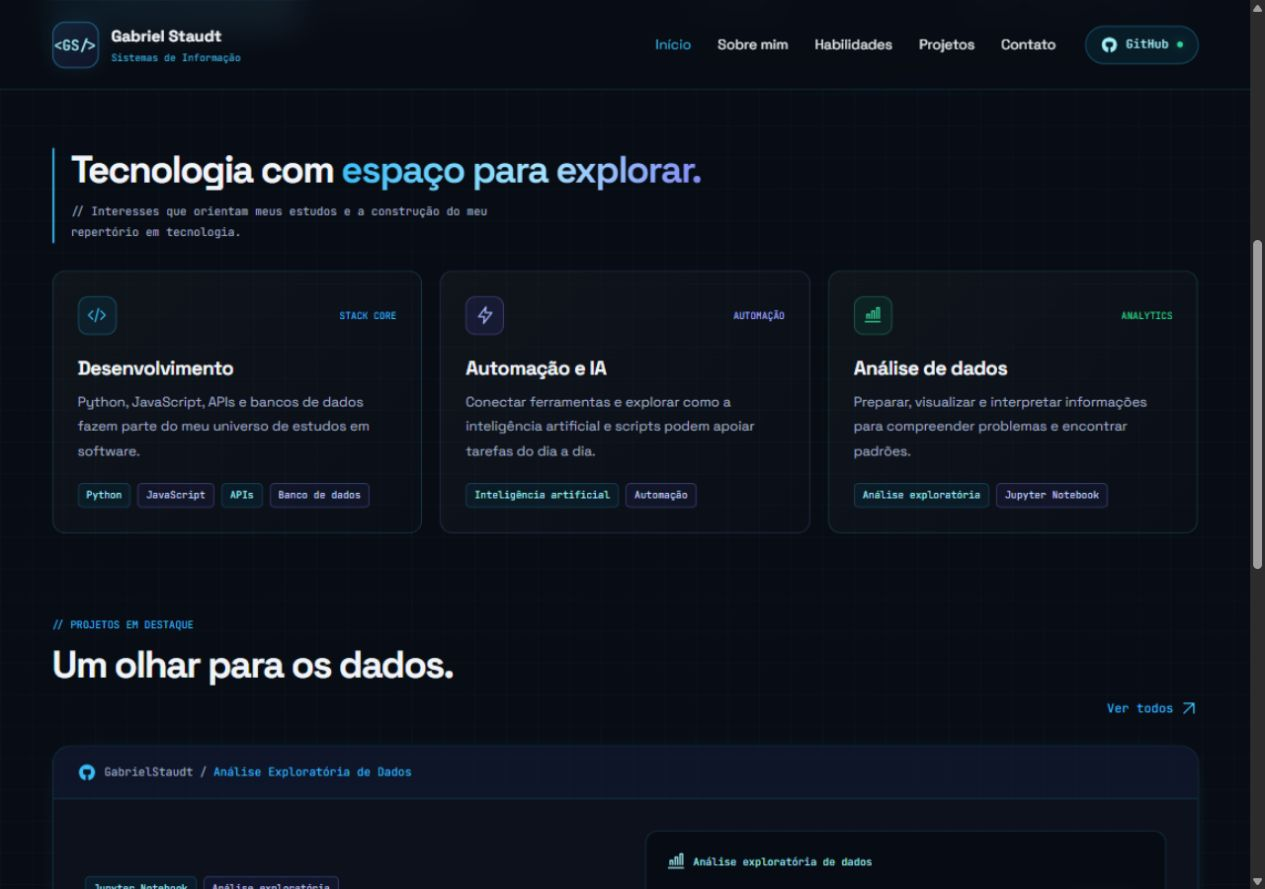
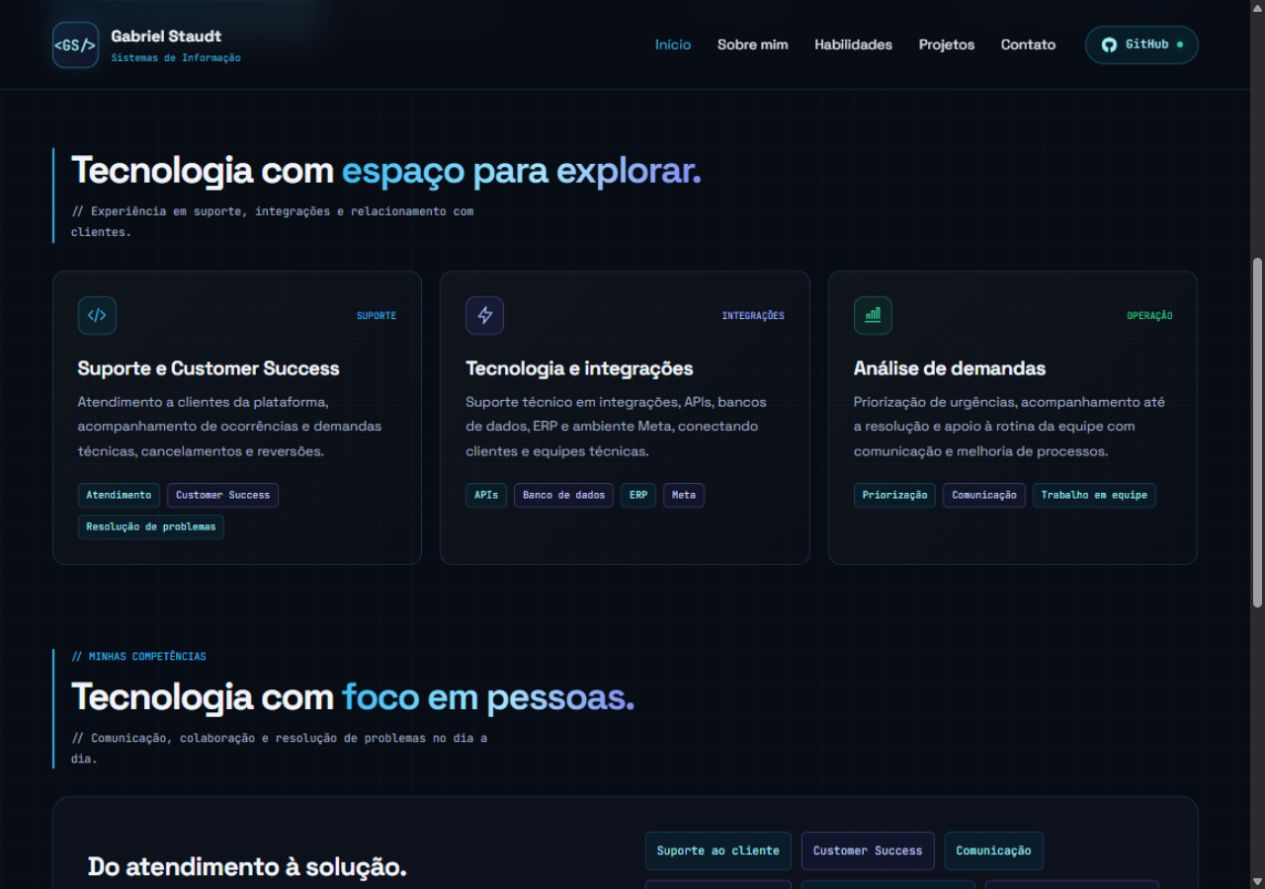
feat: atualiza perfil com currículo e destaca competências

diff --git a/src/index.html b/src/index.html
@@ -3,12 +3,12 @@
 <head>
   <meta charset="UTF-8">
   <meta name="viewport" content="width=device-width, initial-scale=1">
-  <meta name="description" content="Gabriel Staudt, acadêmico de Sistemas de Informação. Desenvolvimento de software, automação, inteligência artificial e análise de dados.">
+  <meta name="description" content="Gabriel Bregalda Staudt, Analista de Suporte na Redrive e estudante de Sistemas de Informação na Unochapecó. Tecnologia, integrações e Customer Success.">
   <meta name="theme-color" content="#080c14">
   <meta property="og:type" content="website">
-  <meta property="og:title" content="Gabriel Staudt | Software, Automação &amp; Dados">
-  <meta property="og:description" content="Gabriel Staudt, acadêmico de Sistemas de Informação. Desenvolvimento de software, automação, inteligência artificial e análise de dados.">
-  <title>Gabriel Staudt | Software, Automação &amp; Dados</title>
+  <meta property="og:title" content="Gabriel Staudt | Tecnologia, Suporte &amp; Customer Success">
+  <meta property="og:description" content="Gabriel Bregalda Staudt, Analista de Suporte na Redrive e estudante de Sistemas de Informação na Unochapecó. Tecnologia, integrações e Customer Success.">
+  <title>Gabriel Staudt | Tecnologia, Suporte &amp; Customer Success</title>
   <link rel="icon" href="assets/icons/favicon.svg" type="image/svg+xml">
   <link rel="preload" href="assets/fonts/space-grotesk-regular.ttf" as="font" type="font/ttf" crossorigin>
   <link rel="preload" href="assets/fonts/space-grotesk-bold.ttf" as="font" type="font/ttf" crossorigin>
@@ -16,7 +16,7 @@
 </head>
 <body>
 <a class="skip" href="#conteudo">Pular para o conteúdo</a>
-<div class="telemetry"><div class="wrap"><span class="status"><span class="status-dot"></span>SOFTWARE / AUTOMAÇÃO / DADOS</span><span><span class="extra">GABRIEL STAUDT · </span>2026</span></div></div>
+<div class="telemetry"><div class="wrap"><span class="status"><span class="status-dot"></span>TECNOLOGIA / SUPORTE / CUSTOMER SUCCESS</span><span><span class="extra">GABRIEL STAUDT · </span>2026</span></div></div>
 <header class="header"><div class="wrap">
   <a class="brand" href="index.html" aria-label="Gabriel Staudt, início"><span class="monogram" aria-hidden="true">&lt;GS/&gt;</span><span><span class="brand-name">Gabriel Staudt</span><small>Sistemas de Informação</small></span></a>
   <nav aria-label="Navegação principal"><a href="index.html" aria-current="page">Início</a><a href="sobre.html">Sobre mim</a><a href="index.html#habilidades">Habilidades</a><a href="projetos.html">Projetos</a><a href="#contato">Contato</a></nav>
@@ -24,36 +24,35 @@
 </div></header>
 <main id="conteudo">
 <section class="hero" id="inicio">
-  <div><div class="intro"><span class="status-dot"></span>Olá, eu sou o Gabriel</div><h1>Curiosidade que<br>vira <span class="gradient">código.</span></h1><p class="lead">Sou <strong>Gabriel Staudt</strong>, acadêmico de <strong>Sistemas de Informação</strong>. Meu campo de exploração é a tecnologia: desenvolvimento de software, automação e análise de dados.</p><div class="actions"><a class="button" href="#github-projects"><svg class="icon" aria-hidden="true"><use href="assets/icons/sprite.svg#github"></use></svg>Explorar projetos no GitHub</a><a class="button secondary" href="sobre.html">Mais sobre mim <svg class="icon" aria-hidden="true"><use href="assets/icons/sprite.svg#arrow"></use></svg></a></div></div>
+  <div><div class="intro"><span class="status-dot"></span>Olá, eu sou o Gabriel</div><h1>Curiosidade que<br>vira <span class="gradient">código.</span></h1><p class="lead">Sou <strong>Gabriel Bregalda Staudt</strong>, Analista de Suporte na <strong>Redrive</strong> e estudante do 8º período de <strong>Sistemas de Informação na Unochapecó</strong>. Conecto clientes, equipes e tecnologia para resolver problemas e melhorar processos.</p><div class="actions"><a class="button" href="#competencias"><svg class="icon" aria-hidden="true"><use href="assets/icons/sprite.svg#github"></use></svg>Conheça minhas competências</a><a class="button secondary" href="sobre.html">Mais sobre mim <svg class="icon" aria-hidden="true"><use href="assets/icons/sprite.svg#arrow"></use></svg></a></div></div>
   <div class="workbench glass" aria-label="Meu universo de trabalho">
   <div class="window-bar"><span class="window-title"><span class="dots" aria-hidden="true"><i></i><i></i><i></i></span> ~/workspace/universo</span><span class="branch">branch: main</span></div>
   <div class="bench-title"><span>MEU UNIVERSO DE TRABALHO</span><span aria-hidden="true">···</span></div>
   <div class="pipeline">
-    <div class="stage"><span class="icon-box"><svg class="icon" aria-hidden="true"><use href="assets/icons/sprite.svg#chart"></use></svg></span><div><strong>Entender os dados</strong><p>Explorar, visualizar, interpretar</p></div><span class="chip">EDA</span></div>
-    <div class="stage core"><span class="icon-box"><svg class="icon" aria-hidden="true"><use href="assets/icons/sprite.svg#code"></use></svg></span><div><strong>Desenvolver soluções</strong><p>Python, JavaScript e APIs</p></div><span class="chip">CORE</span></div>
-    <div class="stage violet"><span class="icon-box"><svg class="icon" aria-hidden="true"><use href="assets/icons/sprite.svg#bolt"></use></svg></span><div><strong>Conectar possibilidades</strong><p>Automação e Inteligência Artificial</p></div><span class="chip">AI + BOT</span></div>
+    <div class="stage"><span class="icon-box"><svg class="icon" aria-hidden="true"><use href="assets/icons/sprite.svg#chart"></use></svg></span><div><strong>Entender as demandas</strong><p>Analisar, priorizar, acompanhar</p></div><span class="chip">SUPORTE</span></div>
+    <div class="stage core"><span class="icon-box"><svg class="icon" aria-hidden="true"><use href="assets/icons/sprite.svg#code"></use></svg></span><div><strong>Conectar sistemas</strong><p>APIs, bancos de dados e ERP</p></div><span class="chip">CORE</span></div>
+    <div class="stage violet"><span class="icon-box"><svg class="icon" aria-hidden="true"><use href="assets/icons/sprite.svg#bolt"></use></svg></span><div><strong>Conectar pessoas</strong><p>Comunicação e Customer Success</p></div><span class="chip">CS</span></div>
   </div>
   <div class="bench-note"><span>Ciclo contínuo:</span><span>Aprender → Experimentar → <b>Construir</b></span></div>
 </div>
 </section>
 <section class="section" id="habilidades">
-  <div class="section-heading"><div class="section-title"><h2>Tecnologia com <span class="gradient">espaço para explorar.</span></h2><p>// Interesses que orientam meus estudos e a construção do meu repertório em tecnologia.</p></div></div>
+  <div class="section-heading"><div class="section-title"><h2>Tecnologia com <span class="gradient">espaço para explorar.</span></h2><p>// Experiência em suporte, integrações e relacionamento com clientes.</p></div></div>
   <div class="topics">
-    <article class="topic"><div class="topic-top"><div class="icon-box"><svg class="icon" aria-hidden="true"><use href="assets/icons/sprite.svg#code"></use></svg></div><span>STACK CORE</span></div><h3>Desenvolvimento</h3><p>Python, JavaScript, APIs e bancos de dados fazem parte do meu universo de estudos em software.</p><ul class="tags" aria-label="Tecnologias"><li>Python</li><li class="violet-tag">JavaScript</li><li>APIs</li><li class="violet-tag">Banco de dados</li></ul></article>
-    <article class="topic violet"><div class="topic-top"><div class="icon-box"><svg class="icon" aria-hidden="true"><use href="assets/icons/sprite.svg#bolt"></use></svg></div><span>AUTOMAÇÃO</span></div><h3>Automação e IA</h3><p>Conectar ferramentas e explorar como a inteligência artificial e scripts podem apoiar tarefas do dia a dia.</p><ul class="tags" aria-label="Tecnologias"><li>Inteligência artificial</li><li class="violet-tag">Automação</li></ul></article>
-    <article class="topic green"><div class="topic-top"><div class="icon-box"><svg class="icon" aria-hidden="true"><use href="assets/icons/sprite.svg#chart"></use></svg></div><span>ANALYTICS</span></div><h3>Análise de dados</h3><p>Preparar, visualizar e interpretar informações para compreender problemas e encontrar padrões.</p><ul class="tags" aria-label="Tecnologias"><li>Análise exploratória</li><li class="violet-tag">Jupyter Notebook</li></ul></article>
+    <article class="topic "><div class="topic-top"><div class="icon-box"><svg class="icon" aria-hidden="true"><use href="assets/icons/sprite.svg#code"></use></svg></div><span>SUPORTE</span></div><h3>Suporte e Customer Success</h3><p>Atendimento a clientes da plataforma, acompanhamento de ocorrências e demandas técnicas, cancelamentos e reversões.</p><ul class="tags" aria-label="Competências"><li>Atendimento</li><li class="violet-tag">Customer Success</li><li>Resolução de problemas</li></ul></article>
+    <article class="topic violet"><div class="topic-top"><div class="icon-box"><svg class="icon" aria-hidden="true"><use href="assets/icons/sprite.svg#bolt"></use></svg></div><span>INTEGRAÇÕES</span></div><h3>Tecnologia e integrações</h3><p>Suporte técnico em integrações, APIs, bancos de dados, ERP e ambiente Meta, conectando clientes e equipes técnicas.</p><ul class="tags" aria-label="Competências"><li>APIs</li><li class="violet-tag">Banco de dados</li><li>ERP</li><li class="violet-tag">Meta</li></ul></article>
+    <article class="topic green"><div class="topic-top"><div class="icon-box"><svg class="icon" aria-hidden="true"><use href="assets/icons/sprite.svg#chart"></use></svg></div><span>OPERAÇÃO</span></div><h3>Análise de demandas</h3><p>Priorização de urgências, acompanhamento até a resolução e apoio à rotina da equipe com comunicação e melhoria de processos.</p><ul class="tags" aria-label="Competências"><li>Priorização</li><li class="violet-tag">Comunicação</li><li>Trabalho em equipe</li></ul></article>
   </div>
 </section>
-<section class="section" id="github-projects">
-  <div class="section-heading"><div><span class="eyebrow">// PROJETOS EM DESTAQUE</span><h2>Um olhar para os dados.</h2></div><a class="text-link" href="projetos.html">Ver todos <svg class="icon" aria-hidden="true"><use href="assets/icons/sprite.svg#arrow"></use></svg></a></div>
-  <article class="repo-card glass" id="analise">
-  <div class="repo-header"><svg class="icon" aria-hidden="true"><use href="assets/icons/sprite.svg#github"></use></svg><span>GabrielStaudt / <strong>Análise Exploratória de Dados</strong></span></div>
-  <div class="feature"><div><ul class="tags" aria-label="Tecnologias"><li>Jupyter Notebook</li><li class="violet-tag">Análise exploratória</li></ul><h3>Da informação<br>à interpretação.</h3><p>Meu projeto de análise exploratória reúne uma proposta de trabalho com preparação, visualização e interpretação de dados.</p></div><div class="chart" role="img" aria-label="Gráfico conceitual de barras, sem resultados do projeto."><div class="chart-title"><svg class="icon" aria-hidden="true"><use href="assets/icons/sprite.svg#chart"></use></svg> Análise exploratória de dados</div><div class="bars" aria-hidden="true"><div class="bar" style="--height:38%"></div><div class="bar" style="--height:68%"></div><div class="bar" style="--height:48%"></div><div class="bar" style="--height:84%"></div><div class="bar" style="--height:72%"></div><div class="bar" style="--height:98%"></div></div><p class="chart-caption">Ilustração conceitual de preparação e visualização de dados.</p></div></div>
-  <div class="project-footer"><span>Dados · Exploração · Interpretação</span><a class="text-link" href="projetos.html#analise">Conhecer o projeto <svg class="icon" aria-hidden="true"><use href="assets/icons/sprite.svg#arrow"></use></svg></a></div>
-</article>
+<section class="section" id="competencias">
+  <div class="section-heading"><div class="section-title"><span class="eyebrow">// MINHAS COMPETÊNCIAS</span><h2>Tecnologia com <span class="gradient">foco em pessoas.</span></h2><p>// Comunicação, colaboração e resolução de problemas no dia a dia.</p></div></div>
+  <div class="competencies-panel glass">
+    <div><h3>Do atendimento à solução.</h3><p>Atuo na interface entre clientes, áreas internas e equipes técnicas, apoiando a priorização de demandas e o tratamento de urgências.</p><a class="button secondary" href="sobre.html#experiencia">Conheça minha trajetória <svg class="icon" aria-hidden="true"><use href="assets/icons/sprite.svg#arrow"></use></svg></a></div>
+    <div><ul class="tags" aria-label="Competências"><li>Suporte ao cliente</li><li class="violet-tag">Customer Success</li><li>Comunicação</li><li class="violet-tag">Trabalho em equipe</li><li>Resolução de problemas</li><li class="violet-tag">Inteligência emocional</li><li>Tomada de decisão</li></ul><p class="competencies-note">Tecnologia, suporte operacional, iniciativas de MVP e melhoria de processos.</p></div>
+  </div>
 </section>
 <section class="contact" id="contato" aria-label="Contato">
-  <div><span class="intro"><span class="status-dot"></span>VAMOS CONVERSAR</span><h2>Uma boa conversa<br><span class="gradient">pode ser o começo.</span></h2><p>Projetos, ideias e oportunidades em tecnologia,<br>desenvolvimento e análise de dados.</p></div>
+  <div><span class="intro"><span class="status-dot"></span>VAMOS CONVERSAR</span><h2>Uma boa conversa<br><span class="gradient">pode ser o começo.</span></h2><p>Projetos, ideias e oportunidades em tecnologia,<br>suporte e Customer Success.</p></div>
   <div class="contact-actions"><a class="button" href="https://www.linkedin.com/in/gabriel-bregalda-24745a268/"><svg class="icon" aria-hidden="true"><use href="assets/icons/sprite.svg#linkedin"></use></svg>Converse comigo no LinkedIn</a><a class="button" href="https://github.com/GabrielStaudt"><svg class="icon" aria-hidden="true"><use href="assets/icons/sprite.svg#github"></use></svg>github.com/GabrielStaudt <svg class="icon" aria-hidden="true"><use href="assets/icons/sprite.svg#arrow"></use></svg></a></div>
 </section>
 </main>

diff --git a/src/sobre.html b/src/sobre.html
@@ -3,11 +3,11 @@
 <head>
   <meta charset="UTF-8">
   <meta name="viewport" content="width=device-width, initial-scale=1">
-  <meta name="description" content="Conheça Gabriel Staudt, acadêmico de Sistemas de Informação, e seus interesses em desenvolvimento, automação e dados.">
+  <meta name="description" content="Conheça Gabriel Bregalda Staudt: experiência em suporte técnico e Customer Success, formação na Unochapecó, competências, cursos e idiomas.">
   <meta name="theme-color" content="#080c14">
   <meta property="og:type" content="website">
   <meta property="og:title" content="Sobre mim | Gabriel Staudt">
-  <meta property="og:description" content="Conheça Gabriel Staudt, acadêmico de Sistemas de Informação, e seus interesses em desenvolvimento, automação e dados.">
+  <meta property="og:description" content="Conheça Gabriel Bregalda Staudt: experiência em suporte técnico e Customer Success, formação na Unochapecó, competências, cursos e idiomas.">
   <title>Sobre mim | Gabriel Staudt</title>
   <link rel="icon" href="assets/icons/favicon.svg" type="image/svg+xml">
   <link rel="preload" href="assets/fonts/space-grotesk-regular.ttf" as="font" type="font/ttf" crossorigin>
@@ -16,27 +16,35 @@
 </head>
 <body>
 <a class="skip" href="#conteudo">Pular para o conteúdo</a>
-<div class="telemetry"><div class="wrap"><span class="status"><span class="status-dot"></span>SOFTWARE / AUTOMAÇÃO / DADOS</span><span><span class="extra">GABRIEL STAUDT · </span>2026</span></div></div>
+<div class="telemetry"><div class="wrap"><span class="status"><span class="status-dot"></span>TECNOLOGIA / SUPORTE / CUSTOMER SUCCESS</span><span><span class="extra">GABRIEL STAUDT · </span>2026</span></div></div>
 <header class="header"><div class="wrap">
   <a class="brand" href="index.html" aria-label="Gabriel Staudt, início"><span class="monogram" aria-hidden="true">&lt;GS/&gt;</span><span><span class="brand-name">Gabriel Staudt</span><small>Sistemas de Informação</small></span></a>
   <nav aria-label="Navegação principal"><a href="index.html">Início</a><a href="sobre.html" aria-current="page">Sobre mim</a><a href="index.html#habilidades">Habilidades</a><a href="projetos.html">Projetos</a><a href="#contato">Contato</a></nav>
   <a class="github-pill" href="https://github.com/GabrielStaudt"><svg class="icon" aria-hidden="true"><use href="assets/icons/sprite.svg#github"></use></svg>GitHub<span class="status-dot"></span></a>
 </div></header>
 <main id="conteudo">
-<div class="page-heading"><div class="intro"><span class="status-dot"></span>Um pouco sobre mim</div><h1>Aprender é parte<br>da <span class="gradient">construção.</span></h1><p class="lead">Sou Gabriel Staudt. Estudo Sistemas de Informação e exploro as conexões entre software, automação e inovação.</p></div>
+<div class="page-heading"><div class="intro"><span class="status-dot"></span>Um pouco sobre mim</div><h1>Aprender é parte<br>da <span class="gradient">construção.</span></h1><p class="lead">Sou Gabriel Bregalda Staudt. Atuo com tecnologia, suporte e Customer Success, conectando pessoas, demandas e soluções.</p></div>
 <div class="profile-layout" id="sobre">
-  <aside class="profile-aside glass"><img class="portrait" src="assets/images/gabriel-staudt.jpg" alt="Gabriel Staudt" width="280" height="280"><h2>Gabriel Staudt</h2><p>Sistemas de Informação<br>@GabrielStaudt</p><ul class="tags" aria-label="Tecnologias"><li>Software</li><li class="violet-tag">Dados</li></ul></aside>
+  <aside class="profile-aside glass"><img class="portrait" src="assets/images/gabriel-staudt.jpg" alt="Gabriel Bregalda Staudt" width="280" height="280"><h2>Gabriel Bregalda Staudt</h2><p>Analista de Suporte · Redrive<br>Chapecó - SC<br>@GabrielStaudt</p><ul class="tags" aria-label="Competências"><li>Suporte</li><li class="violet-tag">Customer Success</li></ul></aside>
   <div class="profile-body glass">
-    <section><span class="eyebrow">// SOBRE MIM</span><h2>Meu ponto de partida</h2><p>Meu interesse em tecnologia passa pelo desenvolvimento de software, pela automação e pela inovação. Python, JavaScript, inteligência artificial, APIs e bancos de dados estão entre os temas que exploro na minha formação.</p><p>Aqui compartilho meus projetos e estudos, para que você possa conhecer meu trabalho pelo que estou construindo.</p></section>
-    <section id="interesses"><h2>Áreas de interesse</h2><dl class="skill-list"><div><dt>Python e JavaScript</dt><dd>Programação e desenvolvimento de software.</dd></div><div><dt>APIs e bancos de dados</dt><dd>Integração de sistemas e organização de informações.</dd></div><div><dt>Inteligência artificial</dt><dd>Exploração de possibilidades para soluções e automação.</dd></div><div><dt>Análise de dados</dt><dd>Preparação, visualização e interpretação de informações.</dd></div></dl></section>
-    <section><h2>Formação</h2><h3>Sistemas de Informação</h3><p>Graduação em andamento.</p><div class="social-list"><button class="button secondary" type="button" id="print-profile">Imprimir perfil</button></div></section>
+    <section><span class="eyebrow">// PERFIL PROFISSIONAL</span><h2>Pessoas, tecnologia e soluções</h2><p>Estudante de Sistemas de Informação no 8º período, com experiência em tecnologia, atendimento e relacionamento com pessoas, análise e acompanhamento de demandas, suporte operacional e participação em iniciativas de MVP.</p><p>Atuo na interface entre clientes, áreas internas e equipes técnicas, apoiando a gestão da rotina da equipe, a priorização de demandas e o tratamento de urgências, com foco em comunicação, melhoria de processos e resolução de problemas.</p></section>
+    <section id="experiencia"><h2>Experiência profissional</h2><div class="experience-list"><article class="experience"><h3>Analista de Suporte</h3><p class="experience-meta"><strong>Redrive</strong><span>Atual</span></p><ul><li>Atendimento e suporte a clientes da plataforma, com acompanhamento de dúvidas, ocorrências e demandas técnicas do dia a dia.</li><li>Apoio à equipe na priorização e no tratamento de urgências, acompanhando as demandas até a resolução.</li><li>Atuação em cancelamentos e reversões e suporte técnico em integrações, APIs, bancos de dados, ERP e ambiente Meta.</li></ul></article>
+<article class="experience"><h3>Célula de Suporte Operacional (CSO)</h3><p class="experience-meta"><strong>Angellira Rastreamento Satelital</strong><span>Jun. 2023 - Dez. 2023</span></p><ul><li>Suporte operacional e comunicação com responsáveis de transportadoras, auxiliando na mediação de demandas.</li><li>Cooperação com diferentes áreas para manter continuidade e clareza nas operações.</li></ul></article>
+<article class="experience"><h3>Operador de Rede de Teleprocessamento</h3><p class="experience-meta"><strong>Angellira Rastreamento Satelital</strong><span>Set. 2022 - Jun. 2023</span></p><ul><li>Monitoramento de cargas e operações, com contato direto com clientes e responsáveis.</li><li>Comunicação com operadores de diferentes áreas para tratar ocorrências e apoiar a operação.</li></ul></article>
+<article class="experience"><h3>Secretário</h3><p class="experience-meta"><strong>Bregalda Odontologia</strong><span>Jun. 2021 - Dez. 2021</span></p><ul><li>Atendimento presencial e por meios eletrônicos, organização de rotinas e contato direto com clientes.</li></ul></article></div></section>
+    <section id="competencias"><h2>Competências</h2><ul class="tags" aria-label="Competências"><li>Suporte ao cliente</li><li class="violet-tag">Customer Success</li><li>Comunicação</li><li class="violet-tag">Trabalho em equipe</li><li>Resolução de problemas</li><li class="violet-tag">Inteligência emocional</li><li>Tomada de decisão</li></ul></section>
+    <section id="formacao"><h2>Formação</h2><h3>Sistemas de Informação</h3><p>Universidade Comunitária da Região de Chapecó - Unochapecó<br>8º período · Início: janeiro de 2023</p></section>
+    <section id="cursos"><h2>Cursos e formação complementar</h2><div class="course-groups"><div class="course-group"><h3>Tecnologia e desenvolvimento</h3><ul class="course-list"><li><strong>Algoritmos e Programação</strong><span>Unochapecó / UNO+ · 20 horas · 2026</span></li><li><strong>JavaScript para Web</strong><span>Unochapecó / UNO+ · 20 horas · 2025</span></li><li><strong>Redes de Computadores e a Internet</strong><span>Unochapecó / UNO+ · 20 horas · 2025</span></li><li><strong>Nano Course - Soluções Tecnológicas Emergentes</strong><span>FIAP · 40 horas · 2026</span></li></ul></div>
+<div class="course-group"><h3>Experiência do usuário</h3><ul class="course-list"><li><strong>Fundamentos de UX: da experiência à inovação</strong><span>Unochapecó / UNO+ · 20 horas · 2026</span></li></ul></div>
+<div class="course-group"><h3>Dados e Business Intelligence</h3><ul class="course-list"><li><strong>Introdução a Banco de Dados</strong><span>Unochapecó / UNO+ · 10 horas · 2026</span></li><li><strong>Power BI</strong><span>Grupo Ninja · 1 hora e 15 minutos · 2026</span></li><li><strong>Gestão e Análise de Dados</strong><span>Unochapecó / UNO+ · 20 horas · 2026</span></li></ul></div>
+<div class="course-group"><h3>Customer Success</h3><ul class="course-list"><li><strong>Trilha de Aprendizado em Customer Success</strong><span>CS Academy · Formação complementar</span></li></ul></div></div></section>
+    <section id="idiomas"><h2>Idiomas</h2><dl class="skill-list"><div><dt>Inglês</dt><dd>Avançado</dd></div><div><dt>Espanhol</dt><dd>Intermediário</dd></div></dl></section>
   </div>
 </div>
 <section class="contact" id="contato" aria-label="Contato">
-  <div><span class="intro"><span class="status-dot"></span>VAMOS CONVERSAR</span><h2>Uma boa conversa<br><span class="gradient">pode ser o começo.</span></h2><p>Projetos, ideias e oportunidades em tecnologia,<br>desenvolvimento e análise de dados.</p></div>
+  <div><span class="intro"><span class="status-dot"></span>VAMOS CONVERSAR</span><h2>Uma boa conversa<br><span class="gradient">pode ser o começo.</span></h2><p>Projetos, ideias e oportunidades em tecnologia,<br>suporte e Customer Success.</p></div>
   <div class="contact-actions"><a class="button" href="https://www.linkedin.com/in/gabriel-bregalda-24745a268/"><svg class="icon" aria-hidden="true"><use href="assets/icons/sprite.svg#linkedin"></use></svg>Converse comigo no LinkedIn</a><a class="button" href="https://github.com/GabrielStaudt"><svg class="icon" aria-hidden="true"><use href="assets/icons/sprite.svg#github"></use></svg>github.com/GabrielStaudt <svg class="icon" aria-hidden="true"><use href="assets/icons/sprite.svg#arrow"></use></svg></a></div>
 </section>
-<script src="profile.js" defer></script>
 </main>
 <footer><p>© 2026 Gabriel Staudt. Feito para compartilhar o que construo.</p><div class="footer-links"><a href="https://github.com/GabrielStaudt">GitHub</a><a href="https://www.linkedin.com/in/gabriel-bregalda-24745a268/">LinkedIn</a><a href="https://github.com/GabrielStaudt/portifolio">Código-fonte</a></div></footer>
 </body>

diff --git a/src/projetos.html b/src/projetos.html
@@ -3,11 +3,11 @@
 <head>
   <meta charset="UTF-8">
   <meta name="viewport" content="width=device-width, initial-scale=1">
-  <meta name="description" content="Projetos de Gabriel Staudt em desenvolvimento de software e análise exploratória de dados.">
+  <meta name="description" content="Projetos de Gabriel Staudt em tecnologia e desenvolvimento de software.">
   <meta name="theme-color" content="#080c14">
   <meta property="og:type" content="website">
   <meta property="og:title" content="Projetos | Gabriel Staudt">
-  <meta property="og:description" content="Projetos de Gabriel Staudt em desenvolvimento de software e análise exploratória de dados.">
+  <meta property="og:description" content="Projetos de Gabriel Staudt em tecnologia e desenvolvimento de software.">
   <title>Projetos | Gabriel Staudt</title>
   <link rel="icon" href="assets/icons/favicon.svg" type="image/svg+xml">
   <link rel="preload" href="assets/fonts/space-grotesk-regular.ttf" as="font" type="font/ttf" crossorigin>
@@ -16,25 +16,20 @@
 </head>
 <body>
 <a class="skip" href="#conteudo">Pular para o conteúdo</a>
-<div class="telemetry"><div class="wrap"><span class="status"><span class="status-dot"></span>SOFTWARE / AUTOMAÇÃO / DADOS</span><span><span class="extra">GABRIEL STAUDT · </span>2026</span></div></div>
+<div class="telemetry"><div class="wrap"><span class="status"><span class="status-dot"></span>TECNOLOGIA / SUPORTE / CUSTOMER SUCCESS</span><span><span class="extra">GABRIEL STAUDT · </span>2026</span></div></div>
 <header class="header"><div class="wrap">
   <a class="brand" href="index.html" aria-label="Gabriel Staudt, início"><span class="monogram" aria-hidden="true">&lt;GS/&gt;</span><span><span class="brand-name">Gabriel Staudt</span><small>Sistemas de Informação</small></span></a>
   <nav aria-label="Navegação principal"><a href="index.html">Início</a><a href="sobre.html">Sobre mim</a><a href="index.html#habilidades">Habilidades</a><a href="projetos.html" aria-current="page">Projetos</a><a href="#contato">Contato</a></nav>
   <a class="github-pill" href="https://github.com/GabrielStaudt"><svg class="icon" aria-hidden="true"><use href="assets/icons/sprite.svg#github"></use></svg>GitHub<span class="status-dot"></span></a>
 </div></header>
 <main id="conteudo">
-<div class="page-heading"><div class="intro"><svg class="icon" aria-hidden="true"><use href="assets/icons/sprite.svg#code"></use></svg>O que estou construindo</div><h1>Ideias em <span class="gradient">prática.</span></h1><p class="lead">Projetos e experimentos em desenvolvimento e análise de dados. Cada ideia é um espaço para aprender e construir novas possibilidades.</p></div>
+<div class="page-heading"><div class="intro"><svg class="icon" aria-hidden="true"><use href="assets/icons/sprite.svg#code"></use></svg>O que estou construindo</div><h1>Ideias em <span class="gradient">prática.</span></h1><p class="lead">Um espaço para reunir o que estou construindo em tecnologia e compartilhar minha trajetória profissional.</p></div>
 <div class="project-list">
-  <article class="repo-card glass" id="analise">
-  <div class="repo-header"><svg class="icon" aria-hidden="true"><use href="assets/icons/sprite.svg#github"></use></svg><span>GabrielStaudt / <strong>Análise Exploratória de Dados</strong></span></div>
-  <div class="feature"><div><ul class="tags" aria-label="Tecnologias"><li>Jupyter Notebook</li><li class="violet-tag">Análise exploratória</li></ul><h2>Da informação<br>à interpretação.</h2><p>Meu projeto de análise exploratória reúne uma proposta de trabalho com preparação, visualização e interpretação de dados.</p><a class="button" href="https://github.com/GabrielStaudt/An-lise-Explorat-ria-de-Dados-EDA-"><svg class="icon" aria-hidden="true"><use href="assets/icons/sprite.svg#github"></use></svg>Conhecer o projeto de EDA</a><details><summary>Sobre a proposta</summary><p>Definição do problema, compreensão dos dados, limpeza e preparação, análise exploratória, interpretação e conclusões. Acompanhe o desenvolvimento e os materiais no GitHub.</p></details></div><div class="chart" role="img" aria-label="Gráfico conceitual de barras, sem resultados do projeto."><div class="chart-title"><svg class="icon" aria-hidden="true"><use href="assets/icons/sprite.svg#chart"></use></svg> Análise exploratória de dados</div><div class="bars" aria-hidden="true"><div class="bar" style="--height:38%"></div><div class="bar" style="--height:68%"></div><div class="bar" style="--height:48%"></div><div class="bar" style="--height:84%"></div><div class="bar" style="--height:72%"></div><div class="bar" style="--height:98%"></div></div><p class="chart-caption">Ilustração conceitual de preparação e visualização de dados.</p></div></div>
-  <div class="project-footer"><span>Dados · Exploração · Interpretação</span><a class="text-link" href="https://github.com/GabrielStaudt/An-lise-Explorat-ria-de-Dados-EDA-">Conhecer o projeto <svg class="icon" aria-hidden="true"><use href="assets/icons/sprite.svg#arrow"></use></svg></a></div>
-</article>
-  <article class="repo-card glass" id="portfolio"><div class="repo-header"><svg class="icon" aria-hidden="true"><use href="assets/icons/sprite.svg#github"></use></svg><span>GabrielStaudt / <strong>portifolio</strong></span></div><div class="feature"><div><ul class="tags" aria-label="Tecnologias"><li>HTML</li><li class="violet-tag">CSS</li><li>JavaScript</li></ul><h2>Meu espaço<br>na web.</h2><p>Um espaço para compartilhar minha trajetória, minhas áreas de interesse e o que estou construindo em tecnologia.</p><a class="button" href="https://github.com/GabrielStaudt/portifolio"><svg class="icon" aria-hidden="true"><use href="assets/icons/sprite.svg#github"></use></svg>Explorar o código-fonte</a><details><summary>Como foi construído</summary><p>Três páginas responsivas com HTML, CSS e JavaScript. Fontes, ícones e imagens organizados em assets, com build e publicação automática no GitHub Pages.</p></details></div><div class="browser-art" aria-hidden="true"><div class="window-bar"><span class="window-title"><span class="dots"><i></i><i></i><i></i></span> ~/gabriel/portfolio</span></div><div class="browser-body"><strong>Curiosidade que<br>vira <span class="gradient">código.</span></strong><p>Software, automação e dados.</p><div class="mini-block"></div><div class="mini-block"></div></div></div></div></article>
+  <article class="repo-card glass" id="portfolio"><div class="repo-header"><svg class="icon" aria-hidden="true"><use href="assets/icons/sprite.svg#github"></use></svg><span>GabrielStaudt / <strong>portifolio</strong></span></div><div class="feature"><div><ul class="tags" aria-label="Tecnologias"><li>HTML</li><li class="violet-tag">CSS</li><li>JavaScript</li></ul><h2>Meu espaço<br>na web.</h2><p>Um espaço para compartilhar minha trajetória, minhas áreas de interesse e o que estou construindo em tecnologia.</p><a class="button" href="https://github.com/GabrielStaudt/portifolio"><svg class="icon" aria-hidden="true"><use href="assets/icons/sprite.svg#github"></use></svg>Explorar o código-fonte</a><details><summary>Como foi construído</summary><p>Três páginas responsivas com HTML e CSS. Fontes, ícones e imagens organizados em assets, com build e publicação automática no GitHub Pages.</p></details></div><div class="browser-art" aria-hidden="true"><div class="window-bar"><span class="window-title"><span class="dots"><i></i><i></i><i></i></span> ~/gabriel/portfolio</span></div><div class="browser-body"><strong>Curiosidade que<br>vira <span class="gradient">código.</span></strong><p>Tecnologia, suporte e Customer Success.</p><div class="mini-block"></div><div class="mini-block"></div></div></div></div></article>
 </div>
 <aside class="note glass"><p>Acompanhe os próximos projetos e experimentos no meu <a href="https://github.com/GabrielStaudt">GitHub</a>.</p></aside>
 <section class="contact" id="contato" aria-label="Contato">
-  <div><span class="intro"><span class="status-dot"></span>VAMOS CONVERSAR</span><h2>Uma boa conversa<br><span class="gradient">pode ser o começo.</span></h2><p>Projetos, ideias e oportunidades em tecnologia,<br>desenvolvimento e análise de dados.</p></div>
+  <div><span class="intro"><span class="status-dot"></span>VAMOS CONVERSAR</span><h2>Uma boa conversa<br><span class="gradient">pode ser o começo.</span></h2><p>Projetos, ideias e oportunidades em tecnologia,<br>suporte e Customer Success.</p></div>
   <div class="contact-actions"><a class="button" href="https://www.linkedin.com/in/gabriel-bregalda-24745a268/"><svg class="icon" aria-hidden="true"><use href="assets/icons/sprite.svg#linkedin"></use></svg>Converse comigo no LinkedIn</a><a class="button" href="https://github.com/GabrielStaudt"><svg class="icon" aria-hidden="true"><use href="assets/icons/sprite.svg#github"></use></svg>github.com/GabrielStaudt <svg class="icon" aria-hidden="true"><use href="assets/icons/sprite.svg#arrow"></use></svg></a></div>
 </section>
 </main>

diff --git a/src/styles.css b/src/styles.css
@@ -135,14 +135,6 @@ nav [aria-current='page'] { color: var(--cyan); }
 .feature { display: grid; grid-template-columns: 1fr 1fr; align-items: center; gap: 40px; padding: 32px; }
 .feature h3, .feature h2 { font-size: 2.05rem; margin: 22px 0 15px; }
 .feature p { font-size: .9rem; }
-.project-footer { border-top: 1px solid var(--border); display: flex; justify-content: space-between; gap: 20px; align-items: center; padding: 16px 25px; }
-.project-footer > span { font: .65rem var(--mono); color: var(--muted); }
-.chart { padding: 20px; border-radius: 12px; background: #070b13; border: 1px solid var(--border); }
-.chart-title { font: .65rem var(--mono); color: #a5f3fc; display: flex; align-items: center; gap: 8px; }
-.bars { height: 170px; display: flex; align-items: end; gap: 13px; padding: 23px 8px 0; border-bottom: 1px solid var(--border); }
-.bar { flex: 1; height: var(--height); border-radius: 5px 5px 0 0; background: linear-gradient(#38bdf8, #0891b2); box-shadow: 0 0 15px -5px #38bdf880; }
-.bar:nth-child(2n) { background: linear-gradient(#a5b4fc, #6366f1); box-shadow: 0 0 15px -5px #818cf880; }
-.chart-caption { font: .56rem/1.7 var(--mono); color: var(--muted); margin: 15px 0 0; text-align: center; }
 .contact { position: relative; display: flex; align-items: center; justify-content: space-between; gap: 40px; margin: 8px 0 65px; padding: 45px; border: 1px solid #38bdf84d; border-radius: 18px; background: radial-gradient(ellipse at bottom right, #164e634d, transparent 65%), linear-gradient(130deg, #0c182c, #040813); overflow: hidden; }
 .contact h2 { margin: 15px 0; }
 .contact p { margin: 0; font-size: .9rem; }
@@ -181,7 +173,6 @@ summary { cursor: pointer; font-size: .85rem; color: #a5f3fc; }
 .skill-list { display: grid; grid-template-columns: 1fr 1fr; gap: 25px; }
 .skill-list dt { font-size: .9rem; color: #a5f3fc; margin-bottom: 7px; }
 .skill-list dd { margin: 0; font-size: .82rem; color: var(--muted); line-height: 1.8; }
-.social-list { display: flex; flex-wrap: wrap; gap: 12px; margin-top: 25px; }
 @media (max-width: 950px) {
   .hero { gap: 30px; padding-block: 65px; }
   .workbench { padding: 17px; }
@@ -244,13 +235,6 @@ summary { cursor: pointer; font-size: .85rem; color: #a5f3fc; }
   .feature h3, .feature h2 { font-size: 1.55rem; margin: 18px 0 12px; }
   .feature p { font-size: .8rem; }
   .feature .button { width: 100%; }
-  .bars { height: 140px; gap: 10px; }
-  .chart { padding: 14px; }
-  .chart-title { font-size: .58rem; }
-  .chart-caption { font-size: .52rem; }
-  .project-footer { padding: 14px 18px; gap: 12px; }
-  .project-footer > span { font-size: .55rem; }
-  .project-footer .text-link { font-size: .58rem; }
   .contact { flex-direction: column; align-items: stretch; gap: 25px; padding: 25px; margin-bottom: 35px; }
   .contact h2 { font-size: 1.7rem; }
   .contact p { font-size: .8rem; }
@@ -277,7 +261,7 @@ summary { cursor: pointer; font-size: .85rem; color: #a5f3fc; }
 @media print {
   :root { color-scheme: light; color: #111; background: white; }
   body { background: white; }
-  .telemetry, nav, .github-pill, .skip, .contact, .footer-links, .social-list { display: none; }
+  .telemetry, nav, .github-pill, .skip, .contact, .footer-links { display: none; }
   .header { position: static; background: white; border-color: #ccc; }
   main, .wrap, footer { width: 100%; }
   h1, h2, h3, p, .skill-list dt, .skill-list dd, .brand small { color: #111; }
@@ -291,4 +275,36 @@ summary { cursor: pointer; font-size: .85rem; color: #a5f3fc; }
   .profile-body section { break-inside: avoid; }
   .monogram { color: #111; background: white; box-shadow: none; border-color: #aaa; }
   footer { padding-block: 10px; }
+}
+
+.competencies-panel { display: grid; grid-template-columns: 1fr 1fr; gap: 40px; padding: 35px; align-items: center; }
+.competencies-panel h3 { font-size: 1.65rem; margin-bottom: 15px; }
+.competencies-panel p { font-size: .9rem; }
+.competencies-panel .tags { gap: 10px; }
+.competencies-panel .tags li, .profile-body .tags li { font-size: .72rem; padding: 9px 11px; line-height: 1.6; }
+.competencies-note { margin-bottom: 0; }
+.experience-list { display: grid; gap: 27px; }
+.experience { border-left: 2px solid var(--border); padding-left: 20px; }
+.experience h3 { font-size: 1.13rem; margin-bottom: 9px; line-height: 1.4; }
+.experience-meta { display: flex; flex-wrap: wrap; gap: 6px 14px; margin: 0 0 12px; }
+.experience-meta strong { color: var(--cyan); font-weight: 400; }
+.experience ul { margin: 0; padding-left: 18px; color: var(--muted); font-size: .86rem; line-height: 1.85; }
+.experience li + li { margin-top: 8px; }
+.course-groups { display: grid; gap: 26px; }
+.course-group h3 { font-size: 1rem; color: #a5f3fc; margin-bottom: 15px; letter-spacing: -.01em; }
+.course-list { list-style: none; margin: 0; padding: 0; display: grid; gap: 15px; }
+.course-list strong { display: block; font-size: .86rem; font-weight: 400; line-height: 1.65; }
+.course-list span { display: block; font-size: .75rem; color: var(--muted); line-height: 1.8; margin-top: 3px; }
+@media (max-width: 720px) {
+  .competencies-panel { grid-template-columns: 1fr; gap: 22px; padding: 23px; }
+  .competencies-panel h3 { font-size: 1.4rem; }
+  .competencies-panel p { font-size: .81rem; }
+  .competencies-panel .tags li, .profile-body .tags li { font-size: .66rem; padding: 7px 9px; }
+  .experience { padding-left: 14px; }
+  .experience h3 { font-size: 1rem; }
+  .experience ul { font-size: .79rem; }
+  .course-list strong { font-size: .8rem; }
+  .course-list span { font-size: .7rem; }
+  .profile-aside h2 { line-height: 1.3; }
+  .telemetry .status { font-size: .49rem; }
 }

diff --git a/README.md b/README.md
@@ -1,6 +1,6 @@
 # 🚀 Portfólio | Gabriel Staudt
 
-Portfólio pessoal com foco em desenvolvimento de software, automação e análise de dados, apresentando meus projetos, minha formação e meus interesses em tecnologia.
+Portfólio pessoal com foco em tecnologia, suporte técnico e Customer Success, apresentando meus projetos, minha formação e meus interesses em tecnologia.
 
 🔗 **[Acesse o portfólio](https://gabrielstaudt.github.io/portifolio/)**
 
@@ -34,7 +34,7 @@ Portfólio pessoal com foco em desenvolvimento de software, automação e análi
 
 <img src="./assets/screenshots/mobile/inicio.jpg" alt="Início do portfólio no celular" width="390">
 
-[Visualizar página mobile completa](./assets/screenshots/mobile/pagina-completa.jpg) · [Sobre mim](./assets/screenshots/mobile/sobre-mim.jpg) · [Projetos](./assets/screenshots/mobile/projetos.jpg)
+[Sobre mim](./assets/screenshots/mobile/sobre-mim.jpg) · [Projetos](./assets/screenshots/mobile/projetos.jpg)
 
 ---
 
@@ -54,7 +54,7 @@ Veja a origem e a organização dos arquivos em [assets/README.md](./assets/READ
 
 ## 🛠 Tecnologias
 
-HTML, CSS, JavaScript e Node.js para gerar o site. Publicação automática no GitHub Pages.
+HTML, CSS e Node.js para gerar o site. Publicação automática no GitHub Pages.
 
 ## ▶ Executar
 
@@ -70,6 +70,10 @@ Abra `dist/index.html` ou consulte o [guia de desenvolvimento](./docs/DESENVOLVI
 ## 🤝 Contribuição
 
 Commits seguem Conventional Commits: `feat:`, `fix:`, `docs:` e `ci:`. Orientações em [CONTRIBUTING.md](./CONTRIBUTING.md).
+
+## 👨💻 Perfil profissional
+
+Analista de Suporte na Redrive, com experiência em atendimento, Customer Success, integrações e acompanhamento de demandas. Estudante do 8º período de Sistemas de Informação na Unochapecó. A trajetória completa, os cursos e os idiomas estão na página [Sobre mim](https://gabrielstaudt.github.io/portifolio/sobre.html).
 
 ## 📄 Licença e referências
 

diff --git a/docs/DESENVOLVIMENTO.md b/docs/DESENVOLVIMENTO.md
@@ -13,7 +13,6 @@ src/
   projetos.html        Projetos e detalhes
   sobre.html           Perfil e formação
   styles.css           Identidade visual, responsividade e impressão
-  profile.js           Ação de impressão
 scripts/
   build.mjs            Gera dist/ e copia os assets utilizados pelo site
   check.mjs            Verifica páginas, links e âncoras
@@ -43,7 +42,7 @@ O build recria apenas a pasta `dist/` dentro do projeto. Fontes, ícones e image
 
 ## Atualizar
 
-Edite `src/` e os assets de uso do site. Rode o build e a verificação. Confira as três páginas em desktop e celular, os detalhes dos projetos, as âncoras, a navegação por teclado e a impressão do perfil quando afetadas.
+Edite `src/` e os assets de uso do site. Rode o build e a verificação. Confira as três páginas em desktop e celular, os detalhes dos projetos, as âncoras e a navegação por teclado.
 
 As fontes são locais; não há dependência de CDN de CSS ou carregamento remoto da foto.
 
@@ -61,10 +60,7 @@ A publicação adicional em Sites usa o identificador preservado em `.openai/hos
 
 Perfil: https://github.com/GabrielStaudt
 
-Projeto de análise exploratória:
-https://github.com/GabrielStaudt/An-lise-Explorat-ria-de-Dados-EDA-
-
-O gráfico é uma ilustração conceitual. Métricas de estrelas, commits e contribuições não são simuladas.
+As informações profissionais, a formação, os cursos e os idiomas seguem o currículo fornecido por Gabriel. Métricas de estrelas, commits e contribuições não são simuladas.
 
 ## Git
 

diff --git a/assets/README.md b/assets/README.md
@@ -27,7 +27,7 @@ Ambas usam SIL Open Font License. Os arquivos foram baixados das distribuições
 
 `screenshots/desktop/`: início, sobre mim, habilidades, projetos e contato, em viewport de 1280 × 900.
 
-`screenshots/mobile/`: início, sobre mim e projetos em viewport de 390 × 844, mais a captura vertical da página inicial.
+`screenshots/mobile/`: início, sobre mim e projetos em viewport de 390 × 844.
 
 Capturas feitas no navegador a partir desta versão do site. Para atualizar, rode o build e o servidor local, confira o visual e substitua as imagens mantendo os nomes usados pelo README.
 
@@ -35,4 +35,4 @@ As capturas servem à documentação e não são copiadas para a publicação.
 
 ## Elementos em CSS
 
-A malha de fundo, os brilhos, o painel de terminal e o gráfico conceitual são desenhados por CSS e HTML em `src/`. Não dependem de imagens externas.
+A malha de fundo, os brilhos e o painel de terminal são desenhados por CSS e HTML em `src/`. Não dependem de imagens externas.

diff --git a/CONTRIBUTING.md b/CONTRIBUTING.md
@@ -3,7 +3,7 @@
 1. Crie uma branch a partir de `main` com um nome descritivo.
 2. Altere os arquivos em `src/`. Não edite `dist/` diretamente.
 3. Execute `npm run build` e `npm run check`.
-4. Confira as três páginas no navegador em tamanhos de celular e desktop, a navegação por teclado e a impressão do perfil quando afetadas.
+4. Confira as três páginas no navegador em tamanhos de celular e desktop, a navegação por teclado.
 5. Abra um pull request explicando o comportamento final e a validação realizada.
 
 ## Commits
